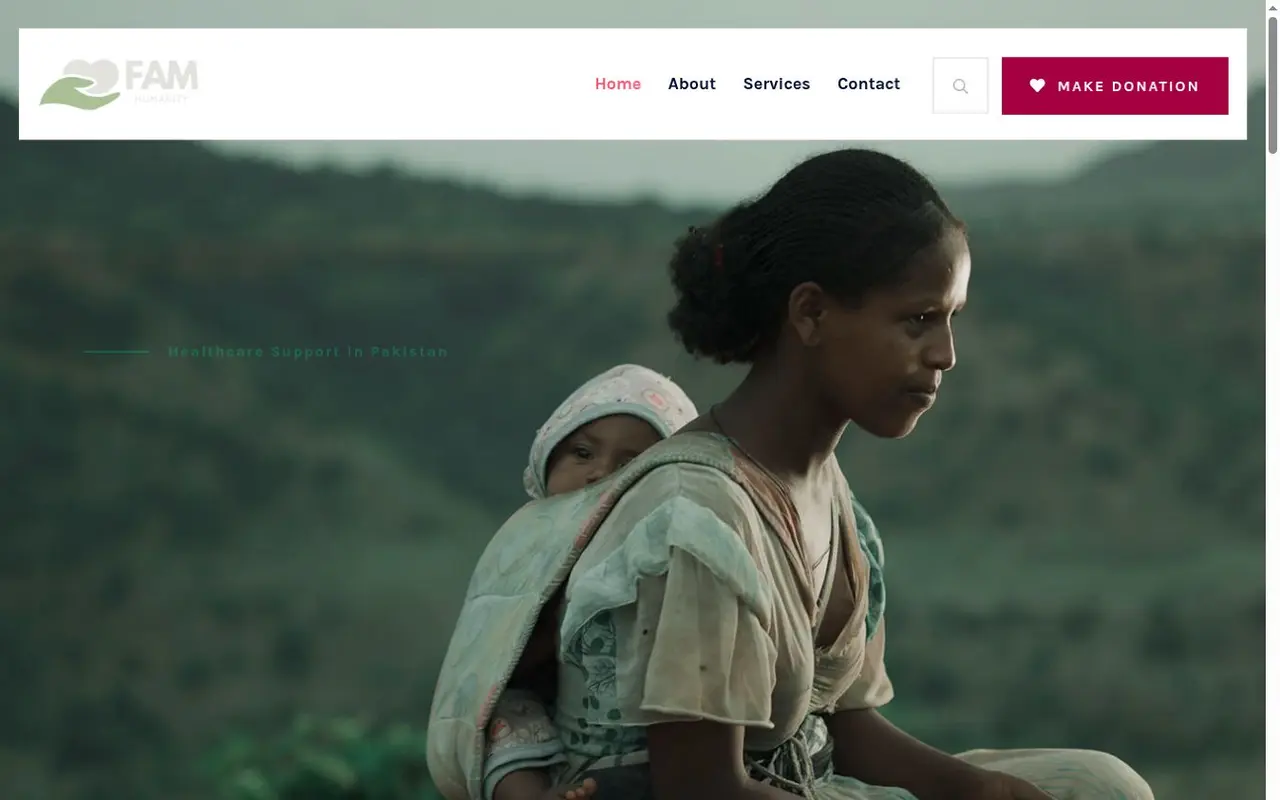
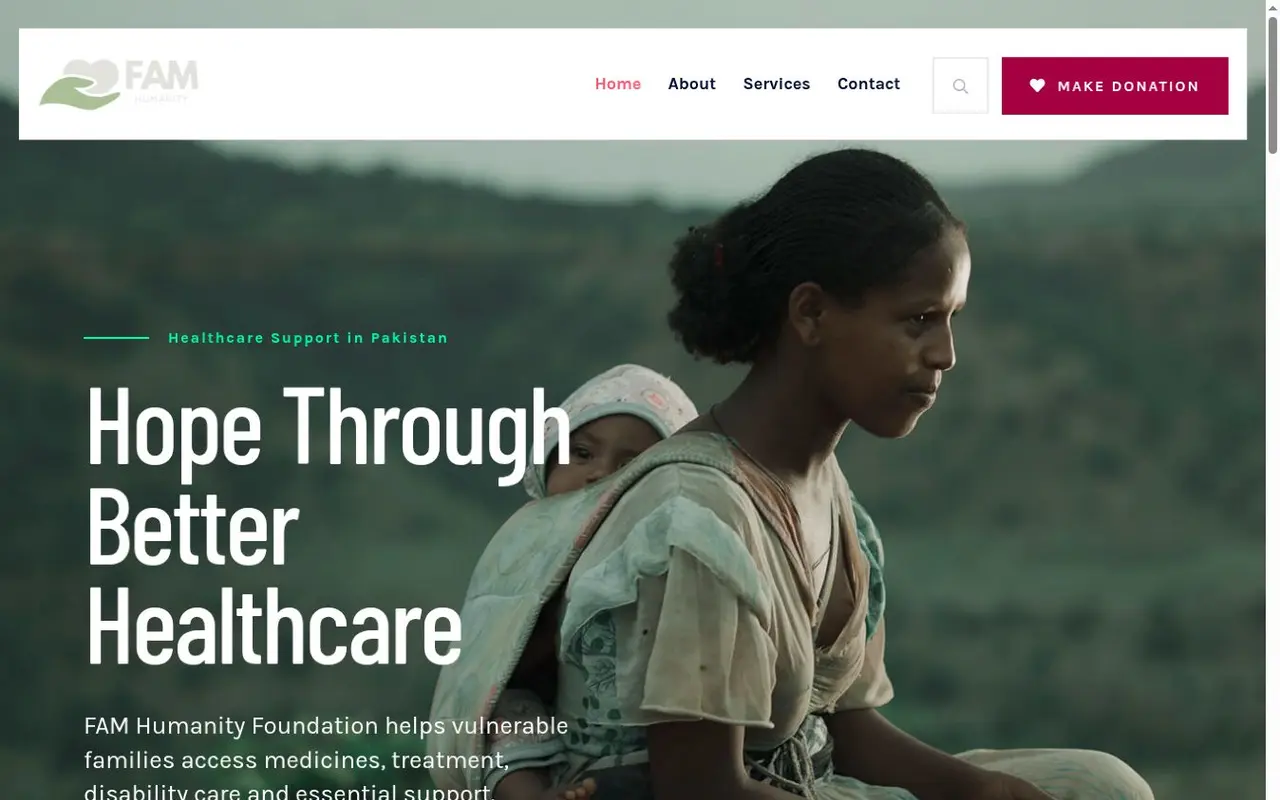
projects updated 2

Changed region(s): [[0.0625, 0.4688, 0.4688, 0.8438], [0.0625, 0.875, 0.4375, 1.0], [0.0625, 0.4062, 0.3438, 0.4375]]

diff --git a/src/components/ProjectsShowcase.jsx b/src/components/ProjectsShowcase.jsx
@@ -8,13 +8,13 @@ const projects = [
     slug: 'sb-traworld',
     url: 'https://sb-traworld.com/',
     domain: 'sb-traworld.com',
-    type: 'Travel & Pilgrimage Platform',
+    type: 'Travel and Pilgrimage Platform',
     platform: 'WordPress',
     image: '/images/projects/spotlight/sb-traworld.webp',
     accent: '#8b7cff',
     glow: 'rgba(139, 124, 255, 0.15)',
     description:
-      'A bilingual travel and pilgrimage platform bringing destinations, Hajj and Umrah packages, verified updates and enquiry journeys into one clear booking experience.',
+      'A bilingual travel and pilgrimage platform that brings destinations, Hajj and Umrah packages, travel updates and enquiries together in one clear booking experience.',
     services: ['Brand identity', 'UI/UX design', 'WordPress build', 'Custom functionality', 'Bilingual experience', 'Deployment'],
   },
   {
@@ -23,14 +23,14 @@ const projects = [
     slug: 'fusionfora',
     url: 'https://fusionfora.com/',
     domain: 'fusionfora.com',
-    type: 'AI Strategy & Consulting',
+    type: 'AI Strategy and Consulting',
     platform: 'WordPress',
     image: '/images/projects/spotlight/fusionfora.webp',
     accent: '#5a9cff',
     glow: 'rgba(90, 156, 255, 0.14)',
     description:
-      'An AI strategy and leadership consulting website that turns complex advisory services into a clear, credible and conversion-focused experience.',
-    services: ['Logo & brand', 'UI/UX design', 'WordPress build', 'Service architecture', 'Lead generation', 'Deployment'],
+      'A polished consulting website that helps leaders understand AI strategy, explore advisory services and take the next step with confidence.',
+    services: ['Logo and brand', 'UI/UX design', 'WordPress build', 'Service architecture', 'Lead generation', 'Deployment'],
   },
   {
     id: '03',
@@ -38,14 +38,14 @@ const projects = [
     slug: 'paan-express',
     url: 'https://paanexpress.com/',
     domain: 'paanexpress.com',
-    type: 'Restaurant & Local Commerce',
+    type: 'Restaurant and Local Commerce',
     platform: 'WordPress',
     image: '/images/projects/spotlight/paan-express.webp',
     accent: '#f39a45',
     glow: 'rgba(243, 154, 69, 0.14)',
     description:
-      'A restaurant website built around appetite-led visuals, a structured digital menu, local discovery and direct ordering paths for Brampton customers.',
-    services: ['Logo & brand', 'UI/UX design', 'WordPress build', 'Digital menu', 'Local SEO structure', 'Deployment'],
+      'A bold restaurant website that presents the menu clearly, builds local trust and guides Brampton customers towards visiting or ordering.',
+    services: ['Logo and brand', 'UI/UX design', 'WordPress build', 'Digital menu', 'Local SEO structure', 'Deployment'],
   },
   {
     id: '04',
@@ -53,13 +53,13 @@ const projects = [
     slug: 'lavish-bath',
     url: 'https://lavishbathcalgary.ca/',
     domain: 'lavishbathcalgary.ca',
-    type: 'Bath & Kitchen Ecommerce',
+    type: 'Bath and Kitchen Ecommerce',
     platform: 'WordPress · WooCommerce',
     image: '/images/projects/spotlight/lavish-bath.webp',
     accent: '#b7a887',
     glow: 'rgba(183, 168, 135, 0.14)',
     description:
-      'A complete bath and kitchen ecommerce experience with product categories, detailed catalog content, discovery sections and a responsive shopping flow.',
+      'A complete bath and kitchen store with organized product categories, detailed product content and a smooth WooCommerce shopping experience.',
     services: ['UI/UX redesign', 'WordPress build', 'WooCommerce', 'Catalog architecture', 'Product content', 'Deployment'],
   },
   {
@@ -69,13 +69,13 @@ const projects = [
     url: 'https://mindcob.com/',
     domain: 'mindcob.com',
     type: 'Digital Agency Platform',
-    platform: 'Custom Full-Stack',
+    platform: 'Custom Full Stack',
     image: '/images/projects/spotlight/mindcob.webp',
     accent: '#55c8f1',
     glow: 'rgba(85, 200, 241, 0.13)',
     description:
-      'A custom business platform positioning a full-service digital agency through clear service architecture, location pages, case studies and lead-generation journeys.',
-    services: ['UI/UX design', 'Custom front end', 'Back-end & CMS', 'Service architecture', 'Lead generation', 'Deployment'],
+      'A custom digital agency website that explains complex services clearly, supports location focused content and turns visitors into qualified leads.',
+    services: ['UI/UX design', 'Frontend development', 'Backend and CMS', 'Service architecture', 'Lead generation', 'Deployment'],
   },
   {
     id: '06',
@@ -83,13 +83,13 @@ const projects = [
     slug: 'fam-humanity',
     url: 'https://famhumanity.com/',
     domain: 'famhumanity.com',
-    type: 'Nonprofit & Donations',
+    type: 'Nonprofit and Donations',
     platform: 'WordPress',
     image: '/images/projects/spotlight/fam-humanity.webp',
     accent: '#9db49c',
     glow: 'rgba(157, 180, 156, 0.14)',
     description:
-      'A compassionate charity website helping families discover healthcare support, understand the foundation’s mission and contribute through a focused donation journey.',
+      'A compassionate charity website that explains the foundation’s mission, presents its healthcare programs and makes it simple for supporters to donate.',
     services: ['Brand identity', 'UI/UX design', 'WordPress build', 'Donation flow', 'Content structure', 'Deployment'],
   },
   {
@@ -99,13 +99,13 @@ const projects = [
     url: 'https://propexa.ca/',
     domain: 'propexa.ca',
     type: 'Real Estate Marketplace',
-    platform: 'Custom Full-Stack',
+    platform: 'Custom Full Stack',
     image: '/images/projects/spotlight/propexa.webp',
     accent: '#6fa3ff',
     glow: 'rgba(111, 163, 255, 0.13)',
     description:
-      'A custom real-estate listing platform with property search, category filters, agent and landlord areas, listing details and account-ready workflows.',
-    services: ['Brand & UI design', 'Custom full stack', 'Listings system', 'Search & filters', 'User roles', 'Deployment'],
+      'A custom property platform with listing search, category filters, agent and landlord areas, property details and user account features.',
+    services: ['Brand and UI design', 'Custom full stack', 'Listings system', 'Search and filters', 'User roles', 'Deployment'],
   },
   {
     id: '08',
@@ -114,13 +114,13 @@ const projects = [
     url: 'https://hellomoni.de/',
     domain: 'hellomoni.de',
     type: 'Custom Ecommerce Storefront',
-    platform: 'Custom Full-Stack',
+    platform: 'Custom Full Stack',
     image: '/images/projects/spotlight/hellomoni.webp',
     accent: '#db8f9b',
     glow: 'rgba(219, 143, 155, 0.14)',
     description:
-      'A custom ecommerce storefront created around product discovery, category browsing and a clean shopping journey with a tailored visual identity and responsive catalog.',
-    services: ['Logo & brand', 'UI/UX design', 'Custom front end', 'Back-end development', 'Product catalog', 'Deployment'],
+      'A custom ecommerce storefront with clear product discovery, category browsing and a responsive shopping experience shaped around the brand.',
+    services: ['Logo and brand', 'UI/UX design', 'Frontend development', 'Backend development', 'Product catalog', 'Deployment'],
   },
 ]
 
@@ -202,13 +202,13 @@ function ProjectsShowcase() {
         >
           <div>
             <p className="font-mono text-[10px] font-semibold uppercase tracking-[0.26em]" style={{ color: active.accent }}>
-              Selected work · 01—08
+              Selected Projects · Eight Complete Builds
             </p>
             <h2 className="mt-4 max-w-3xl text-4xl font-light leading-[1.02] tracking-[-0.045em] sm:text-5xl lg:text-6xl">
-              Built from <span className="font-serif italic text-white/62">logo</span> to launch.
+              Digital products built to solve <span className="font-serif italic text-white/62">real problems.</span>
             </h2>
             <p className="mt-4 max-w-xl text-sm leading-7 text-white/50 sm:text-[15px]">
-              Eight complete digital products — designed, developed and delivered end to end by one creator.
+              Every project here was created entirely by me, from the first idea and visual identity to the frontend, backend and final launch.
             </p>
           </div>
 
@@ -327,7 +327,7 @@ function ProjectsShowcase() {
               <div className="mt-7 border-y border-white/10 py-5">
                 <p className="font-mono text-[8px] font-semibold uppercase tracking-[0.2em] text-white/28">My role · 100% ownership</p>
                 <p className="mt-2 text-sm font-medium leading-6 text-white/82">
-                  Strategy, logo and branding, UI/UX, front end, back end and deployment.
+                  Strategy, logo and branding, UI/UX, frontend, backend and deployment.
                 </p>
               </div>
 
